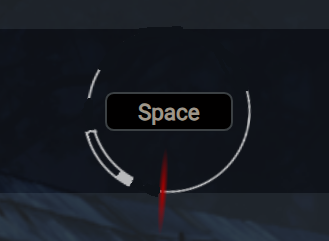
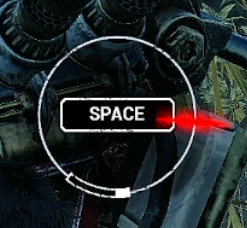
dbd ready

diff --git a/skillCheck/skillCheck.cpp b/skillCheck/skillCheck.cpp
@@ -17,7 +17,7 @@
 
 screencapture sc;
 cv::Mat space = cv::imread("./resources/space.png"); // Load the template image
-cv::Mat red = cv::imread("./resources/red.png");
+cv::Mat red = cv::imread("./resources/test.png");
 cv::Mat graySpace;
 cv::Rect globalROI;
 cv::Rect windowROI;
@@ -43,9 +43,9 @@ std::pair<cv::Mat, cv::Rect> cropSpace(cv::Mat& inputImage) {
 		return { cv::Mat(), cv::Rect() };
 	}
 
-	constexpr int PADDING_X = 25; // Horizontal padding
-	constexpr int PADDING_Y = 68; // Vertical padding
-	constexpr int TEMPLATE_WIDTH = 128;
+	constexpr int PADDING_X = 33; // Horizontal padding
+	constexpr int PADDING_Y = 73 ; // Vertical padding
+	constexpr int TEMPLATE_WIDTH = 127;
 	constexpr int TEMPLATE_HEIGHT = 39;
 
 	cv::Point topLeft(max(maxLoc.x - PADDING_X, 0), max(maxLoc.y - PADDING_Y, 0));
@@ -68,22 +68,18 @@ std::pair<cv::Mat, cv::Rect> cropSpace(cv::Mat& inputImage) {
 	// Now create the ROI with the corrected points
 	cv::Rect roi(topLeft, bottomRight);
 
-	try {
-		cv::Mat croppedImage = inputImage(roi).clone();
-		return { croppedImage, roi };
-	}
-	catch (...) {
-		std::cout << "Crop space issue" << std::endl;
-	}
 
-	// Return an empty Mat if we reach here
-	return { cv::Mat(), cv::Rect() };
+	cv::Mat croppedImage = inputImage(roi);  
+
+	cv::Point rectTopLeft((croppedImage.cols - 127) / 2, (croppedImage.rows - 39) / 2);
+	cv::Point rectBottomRight(rectTopLeft.x + 127, rectTopLeft.y + 39);
+
+	cv::rectangle(croppedImage, rectTopLeft, rectBottomRight, cv::Scalar(0, 0, 0), -1); // -1 means fill the rectangle
+	return { croppedImage, roi };
 }
 
 
 cv::Rect extractWhiteBoxContour(const cv::Mat& croppedImage) {
-
-	//cv::Mat croppedImage = cropSpace(inputImage);
 	if (croppedImage.empty()) {
 		return cv::Rect();
 	}
@@ -94,10 +90,10 @@ cv::Rect extractWhiteBoxContour(const cv::Mat& croppedImage) {
 	//cv::imshow("Gray Image", grayCroppedImage);
 
 	cv::Mat mask;
-	cv::threshold(grayCroppedImage, mask, 180, 190, cv::THRESH_BINARY);
+	cv::threshold(grayCroppedImage, mask, 250 , 255, cv::THRESH_BINARY);
 
 	// Show the binary image
-	//cv::imshow("Binary Image", mask);
+	cv::imshow("Binary Image", mask);
 
 	std::vector<std::vector<cv::Point>> contours;
 	cv::findContours(mask, contours, cv::RETR_LIST, cv::CHAIN_APPROX_SIMPLE);
@@ -112,14 +108,19 @@ cv::Rect extractWhiteBoxContour(const cv::Mat& croppedImage) {
 		int width = boundingRect.width;
 		int height = boundingRect.height;
 
-		//cv::drawContours(contourImage, std::vector<std::vector<cv::Point>>{contour}, -1, cv::Scalar(0, 255, 0), 2);
+		cv::drawContours(contourImage, std::vector<std::vector<cv::Point>>{contour}, -1, cv::Scalar(0, 255, 0), 2);
 
 		// Criteria to filter the white box contour
-		if (contourArea > 4 && width > 8 && height > 8 && width < 50 && height < 50) {
+		//if (contourArea > 40 && width > 18 && height > 18 && width < 30 && height < 30) {
+		if (contourArea >= 70 && width >= 8 && height >= 8 && width <= 100 && height <= 100) {
 			std::cout << "Found" << std::endl;
 
 			cv::rectangle(contourImage, boundingRect, cv::Scalar(0, 0, 255), 2);
-			//cv::imshow("Contours", contourImage);
+			cv::imshow("Contours", contourImage);
+
+			/*std::cout << "Width" << width << std::endl;
+			std::cout << "Height" << height << std::endl;
+			std::cout << "Area" << contourArea << std::endl;*/
 
 			return cv::Rect(boundingRect);
 		}
@@ -132,7 +133,7 @@ cv::Rect extractWhiteBoxContour(const cv::Mat& croppedImage) {
 void resetROI() {
 	globalROI = windowROI;
 	timerStarted = false;
-	std::cout << "Reset ROI" << std::endl;
+	//std::cout << "Reset ROI" << std::endl;
 }
 
 bool detectRed(const cv::Mat& inputImage) {
@@ -143,7 +144,7 @@ bool detectRed(const cv::Mat& inputImage) {
 		for (int x = 0; x < cols; x++) {
 			cv::Vec3b pixel = inputImage.at<cv::Vec3b>(y, x);
 
-			if (pixel[2] > 145 && pixel[2] < 255 && pixel[0] > 0 && pixel[1] < 40 && pixel[0] > 0  && pixel[0] < 40) {
+			if (pixel[2] > 160 && pixel[2] < 255 && pixel[0] > 0 && pixel[1] < 30 && pixel[0] > 0  && pixel[0] < 30) {
 				return true;
 			}
 		}
@@ -151,21 +152,24 @@ bool detectRed(const cv::Mat& inputImage) {
 	return false;
 }
 
-bool hasValidHeight(const cv::Mat& image) {
-	return image.rows <= 800;
-}
-
 void pressSpace() {
-	keybd_event(VK_SPACE, 0, 0, 0); // Press
-	keybd_event(VK_SPACE, 0, KEYEVENTF_KEYUP, 0); // Release
-	std::cout << "Space" << std::endl;
+	// Setup the input event
+	INPUT input[2] = {};
+	input[0].type = INPUT_KEYBOARD;
+	input[0].ki.wVk = VK_SPACE;
+
+	input[1] = input[0];
+	input[1].ki.dwFlags = KEYEVENTF_KEYUP;
+
+	// Send the input event (press and release space key)
+	SendInput(2, input, sizeof(INPUT));
 }
 
 int main() {
 	cv::cvtColor(space, graySpace, cv::COLOR_BGR2GRAY);
 
-	LPCWSTR window_title = L"Skill Check Simulator - Brave";
-	//LPCWSTR window_title = L"DeadByDaylight  ";
+	//LPCWSTR window_title = L"Skill Check Simulator - Brave";
+	LPCWSTR window_title = L"DeadByDaylight  ";
 	HWND hwnd = FindWindow(NULL, window_title);
 	if (hwnd == NULL) {
 		std::cerr << "Could not find window. Error: " << GetLastError() << std::endl;
@@ -186,66 +190,51 @@ int main() {
 	globalROI = windowROI;
 
 	// Declare variables to calculate FPS
-	double fps;
-	cv::TickMeter tm;
-	
-	/*if (detectRed(red)) {
-		std::cout << "Hi" << std::endl;
-	}*/
+	//double fps;
+	//cv::TickMeter tm;
+
+	extractWhiteBoxContour(red);
 
 	while (true) { 
-		try {
-			tm.reset();
-			tm.start();
+		//tm.reset();
+		//tm.start();
 
-			//std::cout << "globalROI - x: " << globalROI.x << ", y: " << globalROI.y << ", width: " << globalROI.width << ", height: " << globalROI.height << std::endl;
-			cv::Mat src = sc.captureScreenMat(hwnd, globalROI);
-			//cv::imshow("Source", src);
-			//std::cout << "Width: " << src.cols << ", Height: " << src.rows << std::endl;
+		//std::cout << "globalROI - x: " << globalROI.x << ", y: " << globalROI.y << ", width: " << globalROI.width << ", height: " << globalROI.height << std::endl;
+		cv::Mat src = sc.captureScreenMat(hwnd, globalROI);
+		//cv::imshow("Source", src);
+		//std::cout << "Width: " << src.cols << ", Height: " << src.rows << std::endl;
 
-			if (timerStarted) {
-				if (detectRed(src)) {
-					pressSpace();
-					cv::imshow("Source", src); 
-					resetROI(); 
-				}
-				else if ((std::chrono::steady_clock::now() - startTime) > resetTime) {
-					std::cout << "Timer Ended" << std::endl;
-					resetROI();
-				}
-
+		if (timerStarted) {
+			if (detectRed(src)) {
+				pressSpace();
+				cv::imshow("Source", src); 
+				resetROI(); 
+			}
+			else if ((std::chrono::steady_clock::now() - startTime) > resetTime) {
+				resetROI();
 			}
 
-			else {
-				std::pair<cv::Mat, cv::Rect> croppedData = cropSpace(src);
-				cv::Mat croppedImage = croppedData.first;
-				cv::Rect croppedRoi = croppedData.second;
-				cv::Rect whiteBoxRect = extractWhiteBoxContour(croppedImage);
+		}
 
-				if (!whiteBoxRect.empty()) {
-					startTime = std::chrono::steady_clock::now();
-					timerStarted = true;
-					std::cout << "Started Timer" << std::endl;
-					globalROI = cv::Rect(croppedRoi.x + whiteBoxRect.x, croppedRoi.y + whiteBoxRect.y, whiteBoxRect.width, whiteBoxRect.height);
-				}
+		else {
+			std::pair<cv::Mat, cv::Rect> croppedData = cropSpace(src);
+			cv::Mat croppedImage = croppedData.first;
+			cv::Rect croppedRoi = croppedData.second;
+			cv::Rect whiteBoxRect = extractWhiteBoxContour(croppedImage);
+
+			if (!whiteBoxRect.empty()) {
+				startTime = std::chrono::steady_clock::now();
+				timerStarted = true;
+				globalROI = cv::Rect(croppedRoi.x + whiteBoxRect.x, croppedRoi.y + whiteBoxRect.y, whiteBoxRect.width - 4, whiteBoxRect.height - 4);
 			}
+		}
+
+		//tm.stop();
+
+		//Calculate frames per second (FPS)
+		//fps = 1.0 / tm.getTimeSec();
+		//std::cout << "FPS: " << fps << std::endl;
 		
-			src = cv::Mat();
-			tm.stop();
-
-			//Calculate frames per second (FPS)
-			fps = 1.0 / tm.getTimeSec();
-			std::cout << "FPS: " << fps << std::endl;
-		}
-		catch (const cv::Exception& e) {
-			std::cerr << "OpenCV Exception caught: " << e.what() << std::endl;
-		}
-		catch (const std::exception& e) {
-			std::cerr << "Standard exception caught: " << e.what() << std::endl;
-		}
-		catch (...) {
-			std::cerr << "Unknown exception caught!" << std::endl;
-		}
 		if (cv::waitKey(5) == 27)
 			break;
 	}
